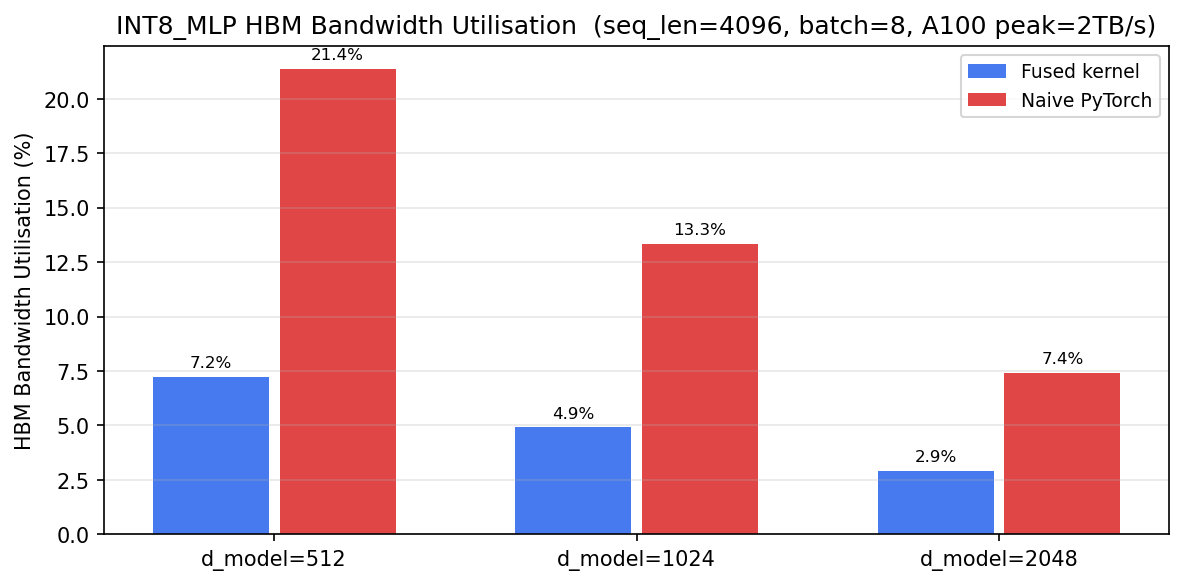
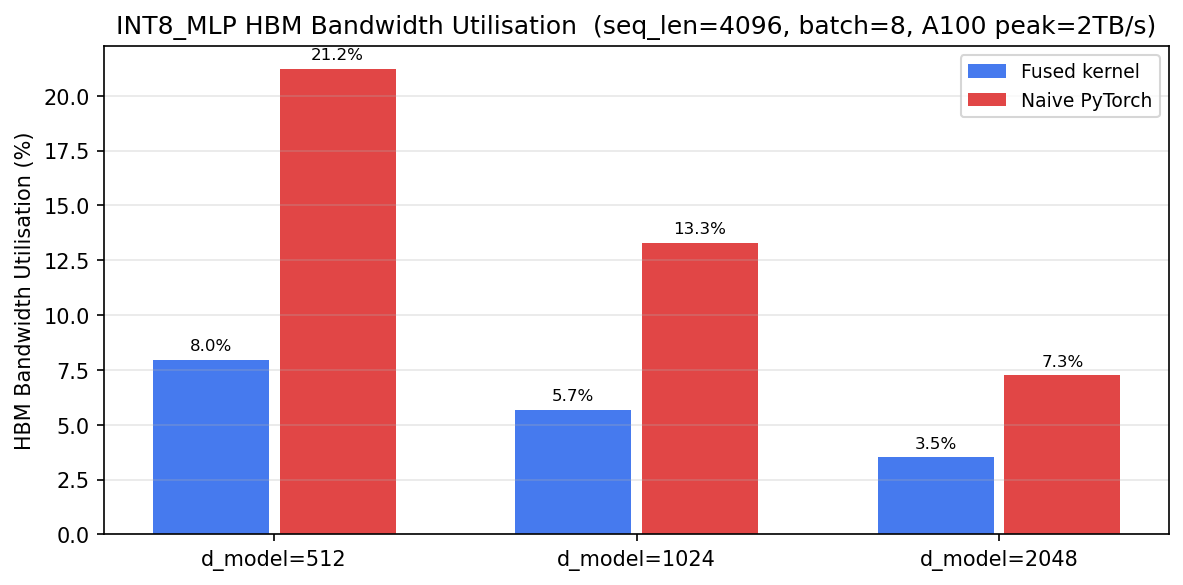
int8_mlp: deepen cp.async K-stage 32->64, hide global-load latency (-6..-17%)
After iter 7 cleared the smem bank-conflict ceiling, the dominant stall on both
MLP GEMMs shifted to long_scoreboard (global-load latency: 18.7%/27.4%, with DRAM
only 5-6% -> pure latency, not bandwidth). Raise INT8_MLP_STAGE_K 32 -> 64 so each
cp.async round carries 2x the data -> half as many global-load sync points + longer
back-to-back mma.sync runs. The mlp_int8_mainloop `for kk in 0..STAGE_K step 32`
loop already handles depth 64 (now 2 mma per acc per round); only the smem strides
change (A/B_SMEM_STRIDE 48 -> 80). Stride 80 stays conflict-free (stride/4 = 20 =
4*5, gcd(5,8)=1 -> the 8 x4-multiple banks are all distinct, bijection over 32
lanes) and 16B-aligned (80 = 5*16), so iter-7's property is preserved.

Profiling (graded b=8 s=512 d_model=1024 d_ff=4096):
  long_scoreboard  18.7%/27.4% -> 5.5%/7.7%
  tensor_op_imma   26.1%/30.9% -> 29.7%/38.2%
  l1tex            39%/29% -> 42%/34%;  bank conflicts still ~0
  registers 128 (launch_bounds-capped, small 48/52B spill), 2 blocks/SM held;
  smem 32 -> 40 KB, no occupancy loss (SM smem budget >= 80 KB)
Latency -6% to -17% across the full 12-point sweep, reproducible across two runs
(d1024 s4096 3.50->3.02 ms; d2048 s4096 12.09->10.04 ms). Speedup vs naive
0.55-0.79x -> 0.59-0.97x.

Accuracy: numerics bit-identical to iter 7 (STAGE_K is pure tiling, same int32
accumulation order); all five gates pass on all 8 datasets + task-level (ppl
+0.011%, top1 100%).
[…]

diff --git a/CLAUDE.md b/CLAUDE.md
@@ -175,28 +175,40 @@ Profile first: `int8_wmma_attention_kernel` (largest share of time), then
 ## 4. Optimization Targets & Rules
 
 **Optimize first** (by expected return):
-1. **smem bank conflicts in the `int8_mlp.cu` GEMM fragment loads** — now the
-   PRIMARY target, profile-identified (2026-06-13). On the graded MLP shape
-   (b=8, s=512, d_model=1024, d_ff=4096) both GEMMs are **L1/smem-pipe bound,
-   NOT DRAM- or compute-bound**: `l1tex__throughput` 78%/67%, `dram__throughput`
-   only 3–4%, `tensor_op_imma` only 16–18%. **~46% of all smem-load wavefronts
-   are bank conflicts** (`l1tex__data_bank_conflicts_..._op_ld` 16.78M of 36.2M
-   `..._wavefronts_mem_shared_op_ld`). Root cause: `A_SMEM_STRIDE = STAGE_K +
-   SMEM_SKEW = 48` bytes → `stride/4 = 12` (even) → the 16 fragment-row starts
-   collide period-8 (2-way conflict). **A pure stride change CANNOT fix this:**
-   the 16B `cp.async` loader requires each smem row start to be 16-byte aligned,
-   so `A_SMEM_STRIDE % 16 == 0`, which forces `stride/4` even → ≥2-way conflict
-   for every legal stride (skew=16's 2-way is already the best stride option;
-   skew 0→4-way, 32→8-way). The correct fix is **XOR swizzling**: keep 16B-
-   aligned chunks but permute each chunk's bank by XOR-ing the smem column
-   offset with a function of the row (CUTLASS-style), and apply the SAME swizzle
-   to the `load_matrix_sync` fragment-read addressing. Verify the B-matrix
-   (`B_SMEM_STRIDE=144`) pattern too, and confirm with the bank-conflict metric
-   on `profile_kernel.py mlp`, not `--quick`. **NOTE: a
-   multi-stage cp.async pipeline is the WRONG lever here** — DRAM is 3–4% and
-   `long_scoreboard` only 12–16%, so there is almost no global-load latency to
-   hide (cp.async double-buffer was also a *negative on attention*,
-   `INT8_ATTN_DB`). Do not chase it; the smem pipe is the ceiling.
+1. **The `wait` (MMA dependency) stall in the `int8_mlp.cu` GEMMs** — the live
+   PRIMARY target after iters 7–8 cleared the two prior ceilings. History on the
+   graded MLP shape (b=8, s=512, d_model=1024, d_ff=4096):
+   - **smem bank conflicts: FIXED in iter 7** (do not re-attempt). Were
+     L1/smem-pipe bound (`l1tex` 78%/67%, `dram` 3–4%, ~46% of smem-load
+     wavefronts were conflicts, 16.78M). The fix was NOT XOR swizzle (proved
+     unnecessary) but the hand-rolled `mma.sync m16n8k32` k-contiguous load whose
+     per-instruction bank map `(stride/4·group + tid) mod 32` is a bijection over
+     the 32 lanes whenever `stride/4 = 4·odd` (stride 48→12=4·3 ✓, stride 80→
+     20=4·5 ✓); both keep the 16B `cp.async` alignment. Conflicts → ≈0,
+     `l1tex` → 39%/29%.
+   - **global-load latency (`long_scoreboard`): FIXED in iter 8** (do not
+     re-attempt deeper k-staging). After iter 7 removed the smem ceiling,
+     `long_scoreboard` rose to **18.7%/27.4%** (DRAM still 5–6% → pure latency,
+     not bandwidth — this is exactly what invalidated the old "multi-stage is the
+     wrong lever" note, which was measured at 12–16% pre-iter-7). Raising
+     `STAGE_K` 32→64 (each cp.async round carries 2× the data → half as many
+     global-load sync points) cut it to **5.5%/7.7%** and lifted `tensor_op_imma`
+     to 30%/38%; latency −6% to −17%, occupancy held at 2 blocks/SM (`launch_
+     bounds(256,2)` caps regs at 128 despite a small spill; smem 32→40 KB did NOT
+     cost a block — the SM smem budget is ≥80 KB). A *true 3-stage* cp.async
+     pipeline is now the dead end the old note warned about: STAGE_K=64 already
+     hides the latency, and a 3rd buffer would grow smem past the epilogue's
+     32 KB ceiling. (cp.async double-buffer was also a *negative on attention*,
+     `INT8_ATTN_DB`.)
+   - **NOW: `wait` (~21%/28%, the new top stall) = MMA-result dependency
+     latency.** `tensor_op_imma` is 30%/38% vs cuBLAS 60%+; the gap is the per-
+     warp serial chain feeding the IMMA pipe at fixed 2-block occupancy
+     (occupancy is structurally dead — the `acc[2][4][8]` register tile alone is
+     ~64 regs, so `launch_bounds(256,3)` would spill catastrophically). The
+     remaining lever is a denser-mma schedule that overlaps more independent IMMA
+     chains (e.g. reorder the rt×ct×{n8-halves} issue so back-to-back mma.sync hit
+     distinct accumulators, or restructure the warp output tile). Confirm with
+     `wait`/`tensor_op_imma` on `profile_kernel.py mlp`, not `--quick`.
 2. The WMMA main loop in `int8_attention.cu` — **occupancy well is DRY; only a
    deep algorithmic change remains.** What is already DONE (do not re-attempt):
    the `INT8_ATTN_REGPV=1` default path keeps P in registers and uses `mma.sync`
@@ -604,3 +616,42 @@ After each optimization, append a section at the bottom of this file:
 - **Conclusion**: pass — largest single-iteration MLP gain so far. Next: push
   `tensor_op_imma` (still ~28%) toward the cuBLAS 60%+ ceiling now that the
   smem-pipe bottleneck is gone — a deeper k-stage pipeline or denser-mma schedule.
+
+
+### Iteration 8 - 2026-06-13
+- **Change**: `kernels/int8_mlp.cu` — raised the cp.async K-stage depth
+  `INT8_MLP_STAGE_K` 32 → 64 (one-line default; the `mlp_int8_mainloop`
+  `for kk in 0..STAGE_K step 32` loop already handles it, now 2 `mma.sync
+  m16n8k32` per acc per cp.async round). smem strides grow `A/B_SMEM_STRIDE`
+  48 → 80; stride 80 stays conflict-free (`stride/4 = 20 = 4·5`, gcd(5,8)=1 →
+  the 8 ×4-multiple banks are all distinct, bijection over 32 lanes) and 16B-
+  aligned (80 = 5·16), so iter-7's conflict-free property is preserved.
+- **Target metric**: `smsp__warp_issue_stalled_long_scoreboard_per_warp_active`
+  down and `sm__pipe_tensor_op_imma_cycles_active` up — after iter 7 cleared the
+  smem-pipe ceiling, `long_scoreboard` (global-load latency, DRAM only 5–6% → pure
+  latency) became a top stall; a deeper k-stage carries 2× data per cp.async round
+  → half as many global-load sync points → less exposed latency + longer back-to-
+  back MMA runs.
+- **Profiling results** (graded shape b=8 s=512 d_model=1024 d_ff=4096):
+  - `long_scoreboard`: **18.7%/27.4% → 5.5%/7.7%** (GEMM1/GEMM2)
+  - `tensor_op_imma` active: **26.1%/30.9% → 29.7%/38.2%**
+  - `wait` (now the top stall): 19.5%/24.3% → 21.5%/28.2%
+  - `l1tex__throughput`: 39%/29% → 42%/34%; bank conflicts still ≈0 (8.4K/1.6K)
+  - registers 128 (launch_bounds-capped; small 48/52 B spill), 2 blocks/SM (held);
+    smem 32 → 40 KB, no occupancy loss (SM smem budget ≥ 80 KB)
+  - **latency: −6% to −17% across the full 12-point sweep**, reproducible across
+    two runs (d1024 s1024 1.03→0.89; s4096 3.50→3.02; d2048 s2048 6.20→5.18,
+    s4096 12.09→10.04). Speedup vs naive 0.55–0.79× → 0.59–0.97×.
+- **Accuracy validation** (all five gates PASS on all 8 datasets + task-level;
+  numerics bit-identical to iter 7 — STAGE_K is pure tiling, same int32
+  accumulation order):
+  - [x] Gate 1: math metrics (normal mlp cos=0.99966)
+  - [x] Gate 2: numeric stability
+  - [x] Gate 3: stage error trace
+  - [x] Gate 4: edge cases
+  - [x] Gate 5: task-level (ppl fp16=504.81 int8=504.87 +0.011%, top1 100%)
+- **Conclusion**: pass — second MLP win in a row. The two prior MLP ceilings
+  (smem bank conflicts, global-load latency) are now both exhausted; the new
+  bottleneck is the `wait` MMA-dependency stall (`tensor_op_imma` 30%/38% vs
+  cuBLAS 60%+) at structurally-fixed 2-block occupancy. Next: a denser-mma
+  schedule that overlaps more independent IMMA chains.

diff --git a/README.md b/README.md
@@ -278,6 +278,22 @@ blocks/SM). All five accuracy gates pass on all 8 datasets (task-level ppl
 change alone removes the conflicts while keeping `load_matrix_sync`'s 16-byte
 store efficiency.
 
+**Follow-up — deeper K-stage (2026-06-13, iter 8): a further −6% to −17%.** Once
+iter 7 cleared the smem-pipe ceiling, the dominant stall shifted to
+`long_scoreboard` (global-load latency: **18.7%/27.4%** on the two GEMMs, with
+DRAM still only 5–6% → pure latency, not bandwidth). Raising the cp.async K-stage
+depth `INT8_MLP_STAGE_K` 32 → 64 (each round carries 2× the data → half as many
+global-load sync points) cut `long_scoreboard` to **5.5%/7.7%** and lifted
+`tensor_op_imma` to **30%/38%**. The wider smem stride (48 → 80 B) stays
+conflict-free — `stride/4 = 20 = 4·5`, gcd(5,8)=1, so the bank map is still a
+bijection — and 16-byte aligned. Latency **−6% to −17% across the full sweep**
+(d_model=1024 s=4096: 3.50→3.02 ms; d_model=2048 s=4096: 12.09→10.04 ms),
+reproducible across two runs; occupancy held at 2 blocks/SM (128 regs, smem
+32→40 KB, no block lost). All five gates pass (numerics bit-identical — STAGE_K
+is pure tiling). The new ceiling is the `wait` MMA-dependency stall
+(`tensor_op_imma` 30%/38% vs cuBLAS 60%+) at structurally-fixed 2-block
+occupancy.
+
 ### Future work
 
 - `mma.sync` PTX path (m16n8k32 for INT8 QK^T, register-resident softmax
